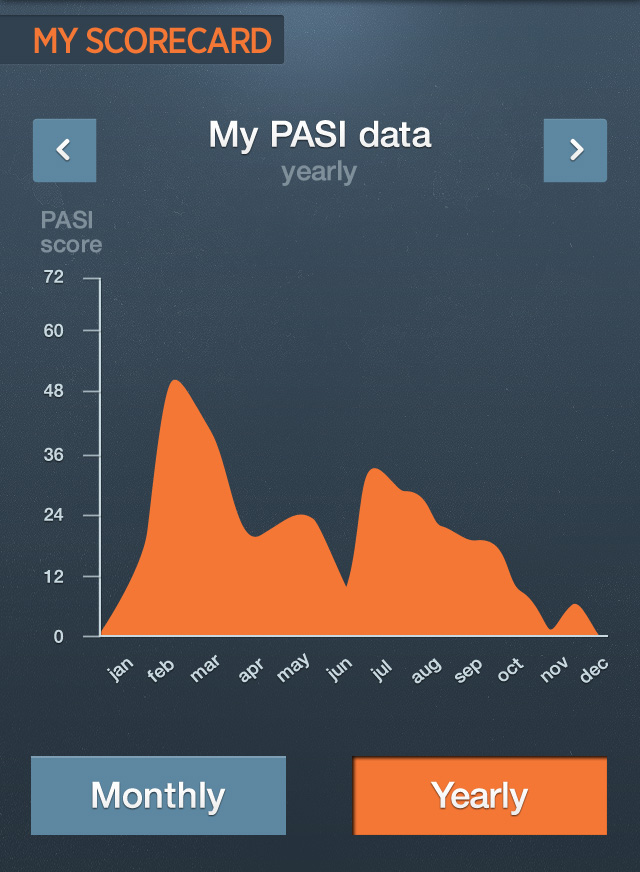
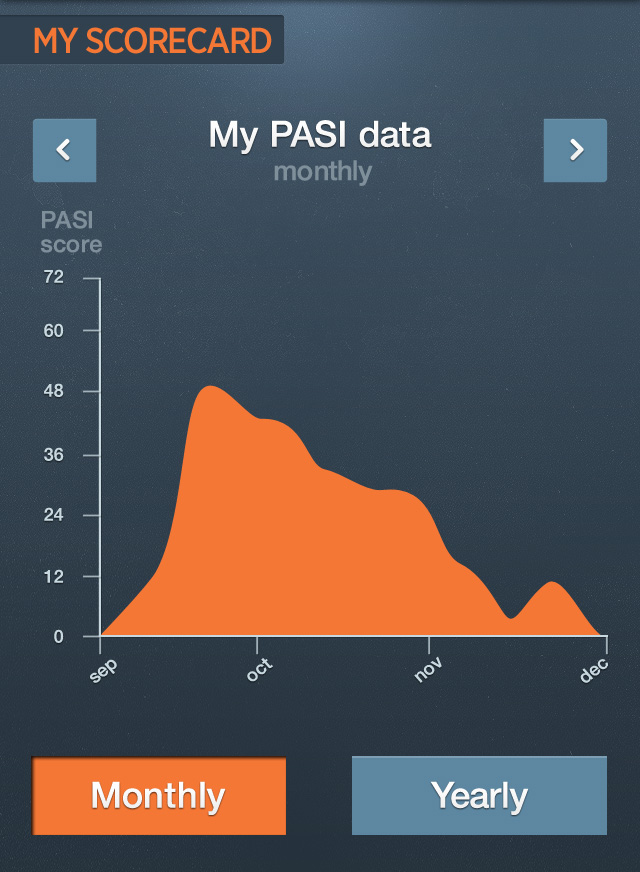
Added monthly view and my skin secong slide

diff --git a/skin2.html b/skin2.html
@@ -42,57 +42,10 @@
 
   <body class="secukinumab" data-spy="scroll" data-target=".bs-docs-sidebar">
 
-    <!-- Navbar
-    ================================================== -->
-    <div class="navbar navbar-inverse navbar-fixed-top">
-      <div class="navbar-inner">
-        <div class="container">
-          <button type="button" class="btn btn-navbar" data-toggle="collapse" data-target=".nav-collapse">
-            <span class="icon-bar"></span>
-            <span class="icon-bar"></span>
-            <span class="icon-bar"></span>
-          </button>
-          <a class="brand" href="./index.html">Illuminate</a>
-          <div class="nav-collapse collapse">
-            <ul class="nav">
-              <li class="inactive">
-                <i class="icon-menu icon-menu-home"></i>
-                <span>Home</span>
-              </li>
-              <li class="">
-                <i class="icon-menu icon-menu-pasi"></i>
-                <a href="./my-pasi.html">My PASI</a>
-              </li>
-              <li class="inactive">
-                <i class="icon-menu icon-menu-impact"></i>
-                <span>Impact on my life</span>
-              </li>
-              <li class="inactive">
-                <i class="icon-menu icon-menu-happy"></i>
-                <span>My happy level</span>
-              </li>
-              <li class="">
-                <i class="icon-menu icon-menu-skin"></i>
-                <a href="./skin.html">My skin</a>
-              </li>
-              <li class="active">
-                <i class="icon-menu icon-menu-scorecard"></i>
-                <a href="./scorecard.html">My scorecard</a>
-              </li>
-              <li class="">
-                <i class="icon-menu icon-menu-reminders"></i>
-                <a href="./reminders.html">My reminders</a>
-              </li>
-            </ul>
-          </div>
-        </div>
-      </div>
-    </div>
-
   <div class="container">
 
     <div class="mockup">
-      <a href="scorecard2.html"><img src="assets/img/scorecard.jpg" height="100%" width="100%"></a>
+      <a href="skin.html"><img src="assets/img/skin2.jpg" height="100%" width="100%"></a>
     </div>
 
   </div>

diff --git a/scorecard2.html b/scorecard2.html
@@ -92,7 +92,7 @@
   <div class="container">
 
     <div class="mockup">
-      <a href="scorecard2.html"><img src="assets/img/scorecard.jpg" height="100%" width="100%"></a>
+      <a href="scorecard.html"><img src="assets/img/scorecard2.jpg" height="100%" width="100%"></a>
     </div>
 
   </div>

diff --git a/skin.html b/skin.html
@@ -92,7 +92,7 @@
   <div class="container">
 
     <div class="mockup">
-      <img src="assets/img/skin.jpg" height="100%" width="100%">
+      <a href="skin2.html"><img src="assets/img/skin.jpg" height="100%" width="100%"></a>
     </div>
 
   </div>
